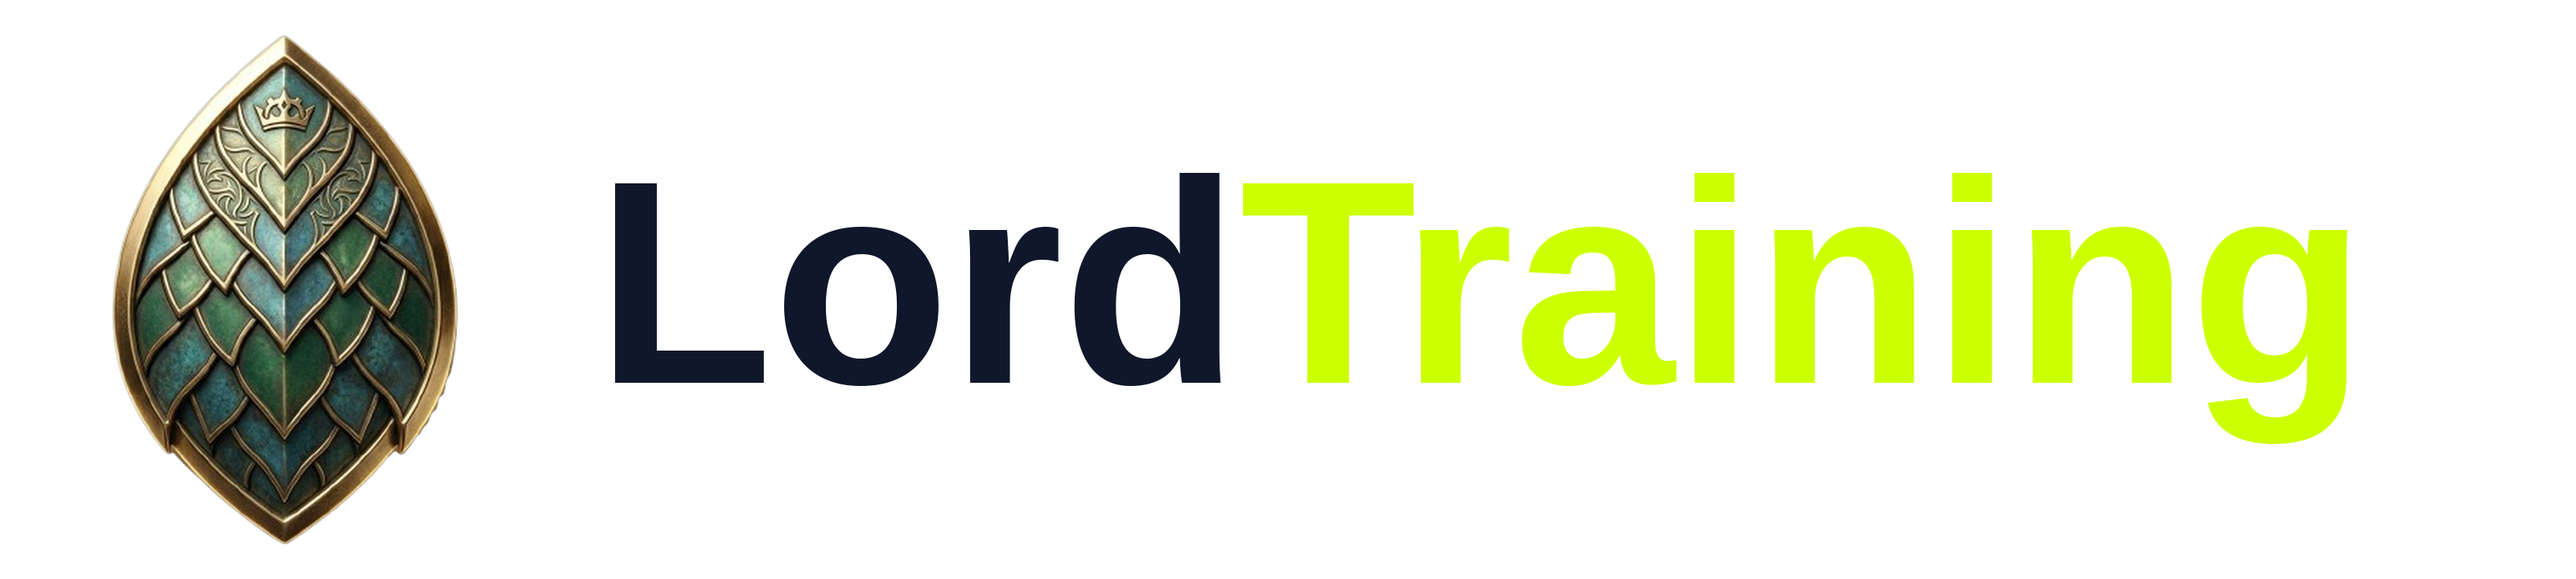
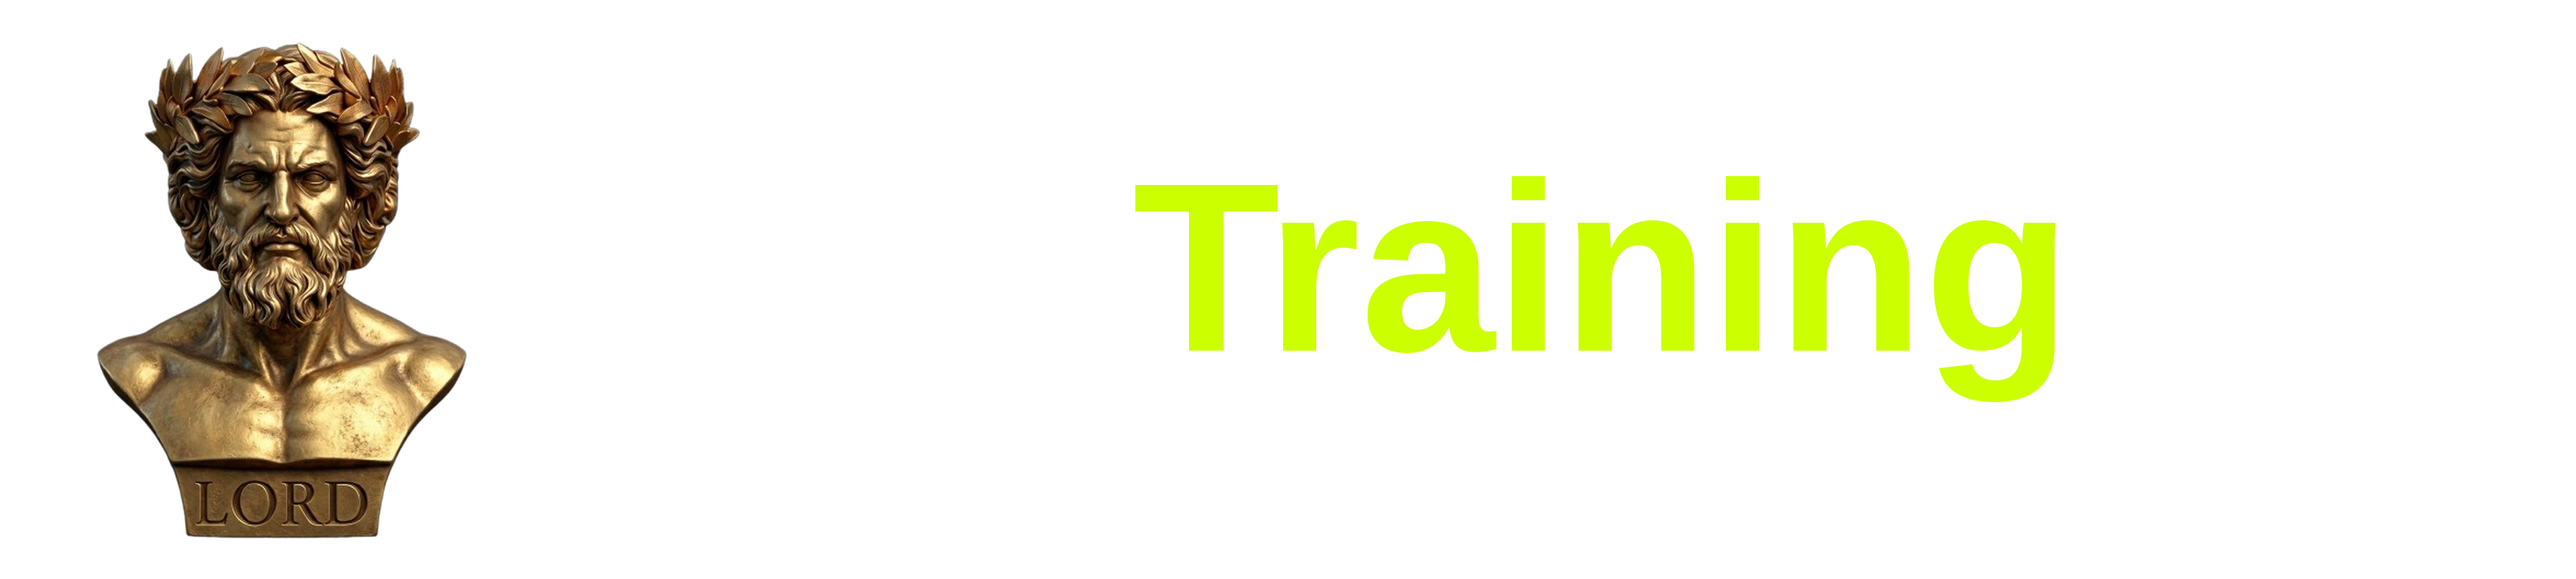
auto-commit for 25929e21-8099-4fb9-b22f-2f529625d344

Changed region(s): [[0.2188, 0.275, 0.9375, 0.7639], [0.0312, 0.0611, 0.1875, 0.9472]]

diff --git a/memory/CHANGELOG.md b/memory/CHANGELOG.md
@@ -164,3 +164,10 @@
 - Logo en PDFs: el usuario veía la "escama de dragón" (figura dorada con brazos+LORD). Reemplazados lordtraining-scale.png, lordtraining-icon-pdf.png, lordtraining-master.png por el busto dorado limpio transparente (500x500, RGBA) que adjuntó el usuario. Verificado visualmente en cover del Reporte Maestro: aparece el busto + "LORDTRAINING". Backend reiniciado para limpiar cache de sessions_export.
 - Reporte Maestro: FUNCIONA en Preview (200, 170KB, 1.1s). El fallo "Cloudflare could not parse / empty response" es EXCLUSIVO de PRODUCCIÓN → requiere REDEPLOY (incluye fix de requirements.txt weasyprint). Si persiste tras redeploy = libs nativas del contenedor de deploy → soporte.
 - ACCIÓN USUARIO: REDEPLOY para llevar a prod (a) requirements.txt con weasyprint, (b) nuevo logo busto en PDFs, (c) favicon ?v=2.
+
+## 2026-06-25 — Wordmark PDFs: escama→busto + legibilidad
+- CAUSA: lordtraining-full-pdf.png (wordmark usado en header de info_catalog, previous_analysis, active_plan, evaluations) contenía el ESCUDO ESCAMA + texto "Lord" oscuro → ilegible sobre el header navy oscuro (.hero #0b1020→#1e293b).
+- FIX: regenerado lordtraining-full-pdf.png (3200x720 transparente, PIL): busto dorado + "Lord" blanco + "Training" lima (#CCFF00) → legible sobre fondo oscuro. Verificado en header del Catálogo (busto + LordTraining legible, sin escama).
+- También ya reemplazados antes: lordtraining-icon-pdf.png, lordtraining-scale.png, lordtraining-master.png = busto limpio.
+- COBERTURA: todos los generadores PDF (catalog, prev-analysis, active-plan, evaluations, PDI whitepaper, master-report, sessions/boards) usan busto + wordmark legible. server.py session/boards PDFs usan texto HTML (ya legible).
+- ACCIÓN USUARIO: REDEPLOY para llevar todo a producción.
